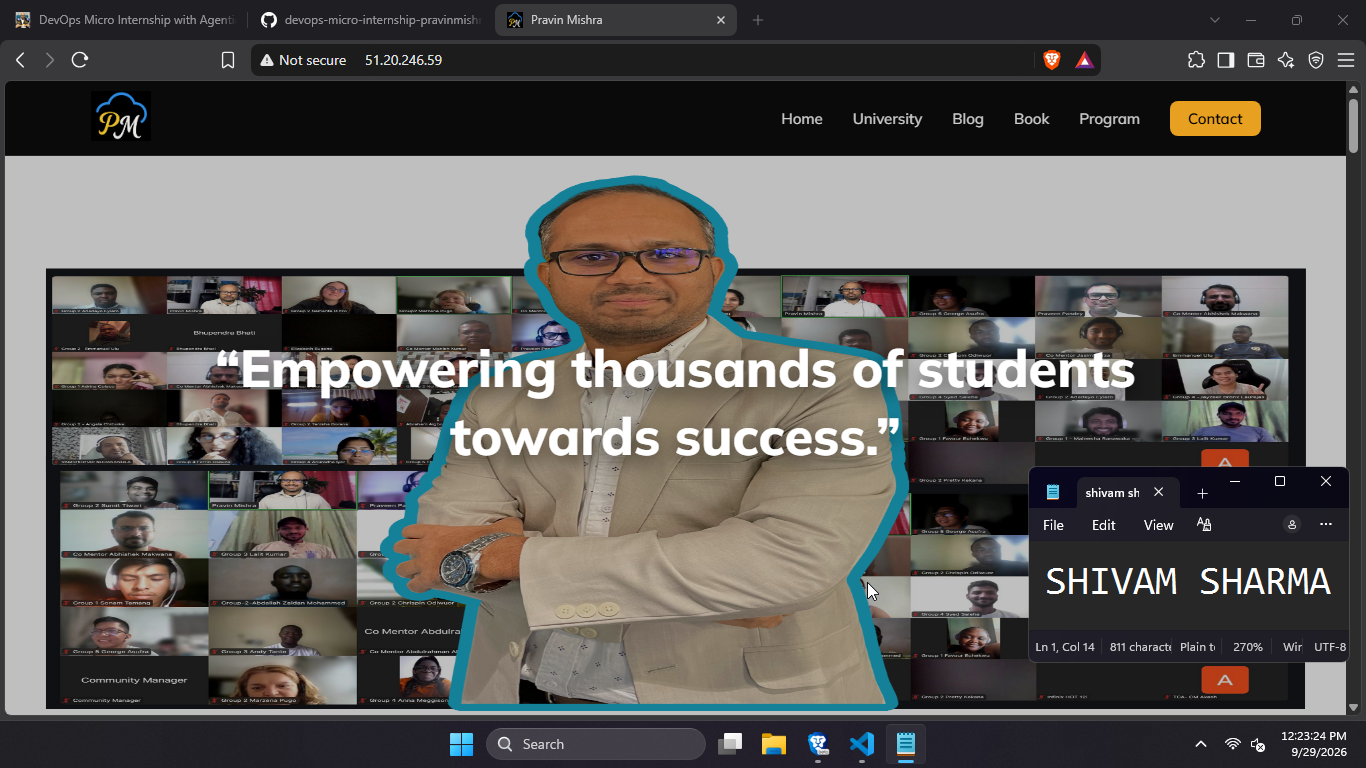
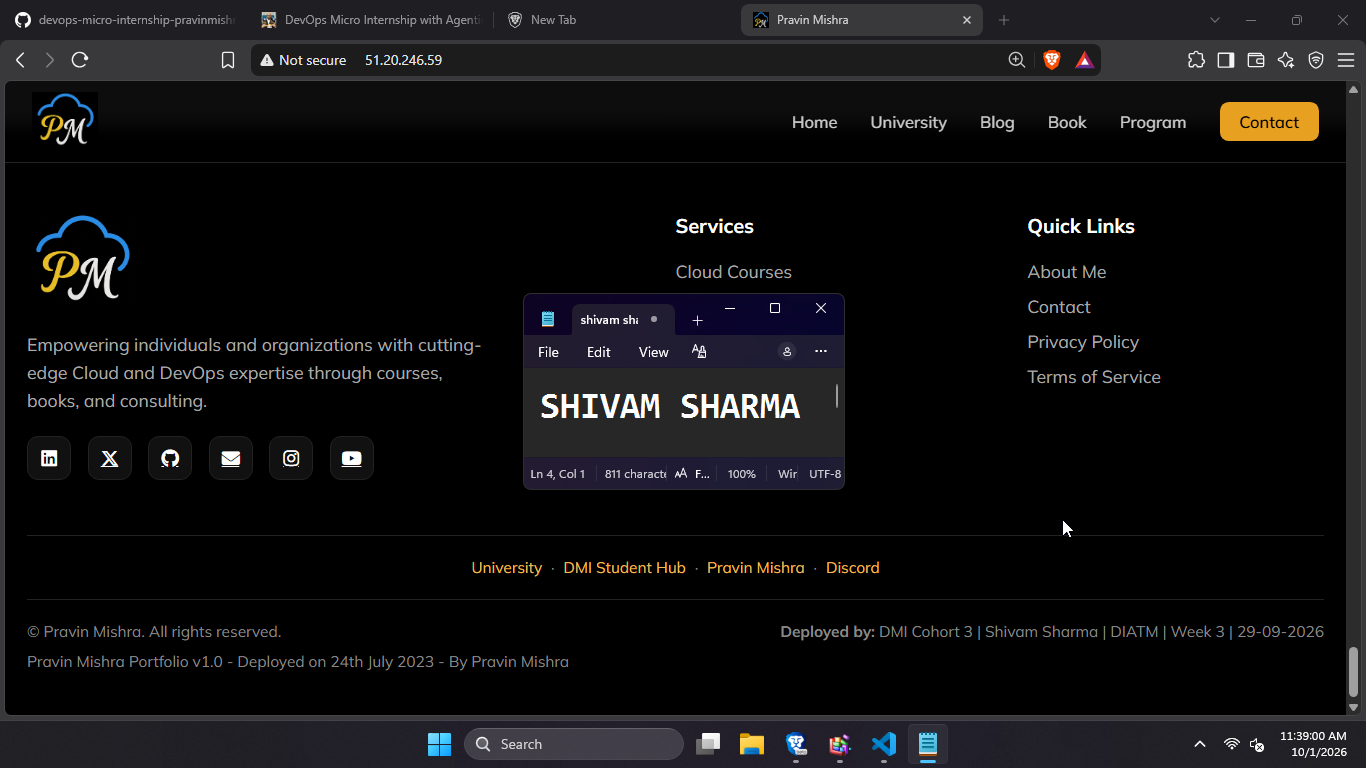
ASSIGNMENT 4 COMPLETED AND ASSIG 5 HALF PAST

diff --git a/week-03-linux-and-bash-for-devops/assignment-05-bash-script-automation-drill-ops-checklist.md b/week-03-linux-and-bash-for-devops/assignment-05-bash-script-automation-drill-ops-checklist.md
@@ -20,13 +20,13 @@ Verify that Bash is available on your system and create a clean workspace for th
 
 #### Screenshot 1 — Output of `echo $SHELL` and `bash --version`
 
-Add your screenshot here.
+![Task 1 Screenshot](screenshots/assignment-05-task-0101.png)
 
 ---
 
 #### Screenshot 2 — Output of `pwd` and `ls -lah` showing the scripts directory
 
-Add your screenshot here.
+![Task 1 Screenshot](screenshots/assignment-05-task-0102.png)
 
 ---
 
@@ -36,19 +36,19 @@ Answer the following in your own words:
 
 **1. What is Bash?**
 
-Add your answer here.
+Bash (Bourne Again Shell) is a command-line interpreter and scripting language that runs on Linux and macOS. It is the default interactive shell on most Linux distributions and allows users to run commands, write scripts, control program flow with conditionals and loops, and automate repetitive tasks. Bash extends the original Bourne shell (`sh`) with features like command history, tab completion, arrays, and arithmetic.
 
 ---
 
 **2. What is the difference between shell and Bash?**
 
-Add your answer here.
+A shell is the general term for any program that interprets commands typed by the user and passes them to the operating system kernel. Bash is one specific implementation of a shell — the most widely used one on Linux. Other shells include `zsh`, `ksh`, `dash`, and `fish`. When you open a terminal on Ubuntu, you are running a shell, and on most Ubuntu systems that shell is Bash by default. The distinction is: shell is the category, Bash is one member of that category.
 
 ---
 
 **3. Why is it important to confirm the Bash version before writing scripts?**
 
-Add your answer here.
+Bash features are not all available in every version. For example, associative arrays were introduced in Bash 4.0, and certain process substitution or regex features behave differently across versions. Older macOS systems shipped with Bash 3.2 by default. If you write a script using a feature from Bash 4 or 5 and it runs on a system with Bash 3, the script will fail with unexpected errors. Confirming the version ensures you only use features that are guaranteed to work in that environment and helps you document what the script requires.
 
 ---
 
@@ -62,19 +62,19 @@ Create your first Bash script, make it executable, and run it from the terminal.
 
 #### Screenshot 1 — Content of `first-script.sh`
 
-Add your screenshot here.
+![Task 2 Screenshot](screenshots/assignment-05-task-0201.png)
 
 ---
 
 #### Screenshot 2 — Output of `./first-script.sh`
 
-Add your screenshot here.
+![Task 2 Screenshot](screenshots/assignment-05-task-0202.png)
 
 ---
 
 #### Screenshot 3 — Output of `ls -l first-script.sh` showing executable permission
 
-Add your screenshot here.
+![Task 2 Screenshot](screenshots/assignment-05-task-0203.png)
 
 ---
 
@@ -84,19 +84,19 @@ Answer the following in your own words:
 
 **1. What is the purpose of `#!/bin/bash`?**
 
-Add your answer here.
+`#!/bin/bash` is called the shebang line. It must appear as the very first line of a script. When the operating system executes the file, it reads the characters after `#!` to determine which interpreter to use. Without it, the system might use the default shell (which could be `sh` or `dash` on Ubuntu, not Bash), potentially causing scripts that rely on Bash-specific syntax to fail silently or with confusing errors. The shebang ensures the correct interpreter is always used regardless of which shell the user is currently logged into.
 
 ---
 
 **2. Why do we use `chmod +x` before running a script?**
 
-Add your answer here.
+Linux files have three permission classes: owner, group, and others. By default, a newly created file does not have the execute bit set, which means the operating system will refuse to run it as a program. `chmod +x` adds the execute permission, telling the OS that this file is intended to be run as a script or program. Without it, attempting `./script.sh` returns a "Permission denied" error even if the file content is perfectly valid Bash.
 
 ---
 
 **3. What is the difference between running a script using `./script.sh` and `bash script.sh`?**
 
-Add your answer here.
+`./script.sh` runs the file as an executable program, using whichever interpreter is specified in the shebang line (`#!/bin/bash`). The execute bit must be set for this to work. `bash script.sh` explicitly passes the file to the Bash interpreter regardless of the shebang line or execute permissions — Bash reads the file as input. In practice both execute the same script, but `./script.sh` is the production-grade approach because it respects the shebang and requires proper permissions to have been granted, mirroring how deployed scripts are actually invoked by cron jobs or other automation systems.
 
 ---
 
@@ -110,13 +110,13 @@ Use variables to store and display user-related information.
 
 #### Screenshot 1 — Content of `user-info.sh`
 
-Add your screenshot here.
+![Task 3 Screenshot](screenshots/assignment-05-task-0301.png)
 
 ---
 
 #### Screenshot 2 — Output of `./user-info.sh`
 
-Add your screenshot here.
+![Task 3 Screenshot](screenshots/assignment-05-task-0302.png)
 
 ---
 
@@ -126,19 +126,19 @@ Answer the following in your own words:
 
 **1. What is a variable in Bash?**
 
-Add your answer here.
+A variable in Bash is a named container that stores a value — a string, a number, or a command output — so it can be referenced and reused throughout the script. Variables eliminate hardcoding by allowing a value to be defined once and used in many places. If the value needs to change, you update one assignment rather than every occurrence in the script.
 
 ---
 
 **2. Why should we avoid spaces around the `=` sign when creating variables?**
 
-Add your answer here.
+In Bash, spaces around `=` are syntax errors. If you write `full_name = "Javeson"`, Bash interprets `full_name` as a command name and `= "Javeson"` as its arguments, resulting in a "command not found" error. The strict no-space rule exists because the Bash parser uses spaces to separate command names from their arguments — there is no ambiguity: `variable=value` is always assignment, while `command arg` is always a command invocation.
 
 ---
 
 **3. How do you access the value stored inside a Bash variable?**
 
-Add your answer here.
+You prefix the variable name with a dollar sign: `$variable_name`. For example, if you declared `full_name="Javeson"`, you retrieve it with `echo "$full_name"`. The double quotes around `$full_name` are a best practice — they prevent word splitting and glob expansion if the value contains spaces or special characters. Without quotes, a variable containing spaces would be interpreted as multiple separate arguments.
 
 ---
 
@@ -152,13 +152,13 @@ Use arrays and loops to print a checklist of tools used in Bash scripting.
 
 #### Screenshot 1 — Content of `tools-checklist.sh`
 
-Add your screenshot here.
+![Task 4 Screenshot](screenshots/assignment-05-task-0401.png)
 
 ---
 
 #### Screenshot 2 — Output of `./tools-checklist.sh`
 
-Add your screenshot here.
+![Task 4 Screenshot](screenshots/assignment-05-task-0402.png)
 
 ---
 
@@ -168,25 +168,25 @@ Answer the following in your own words:
 
 **1. What is an array in Bash?**
 
-Add your answer here.
+An array in Bash is a variable that holds multiple values indexed by position, starting at index 0. It is declared with parentheses: `tools=("bash" "nano" "chmod")`. Unlike a regular variable that holds one value, an array lets you group a collection of related items under a single name and access each element individually by its index, or iterate over all elements using a loop.
 
 ---
 
 **2. Why are arrays useful in scripts?**
 
-Add your answer here.
+Arrays let you manage a list of items without creating a separate variable for each one. Instead of writing `tool1="bash"`, `tool2="nano"`, `tool3="chmod"`, you store all values in one array and loop over them with a single block of code. This makes scripts shorter, easier to maintain, and scalable — adding a new item only requires inserting one value into the array declaration, not modifying every part of the script that references individual variables.
 
 ---
 
 **3. What does `"${tools[@]}"` mean?**
 
-Add your answer here.
+`${tools[@]}` expands to all elements of the `tools` array as separate words. The `@` is the subscript that means "all elements." The double quotes around it ensure that each element is treated as a single unit even if it contains spaces — without the quotes, an element like `"my tool"` would be split into two separate words during expansion. This is the safe, idiomatic way to iterate over array elements in Bash.
 
 ---
 
 **4. What is the purpose of the `for` loop in this script?**
 
-Add your answer here.
+The `for` loop iterates over every element in the `tools` array one at a time, assigning each value to the loop variable `tool`, then executing the body of the loop (the `echo` statement) for that value. Without the loop, you would need to write one `echo` statement per tool. The loop makes the script automatically handle any number of tools without changing the loop logic — only the array contents need to be updated.
 
 ---
 
@@ -200,13 +200,13 @@ Use loops to repeat a task multiple times.
 
 #### Screenshot 1 — Content of `counter.sh`
 
-Add your screenshot here.
+![Task 5 Screenshot](screenshots/assignment-05-task-0501.png)
 
 ---
 
 #### Screenshot 2 — Output of `./counter.sh`
 
-Add your screenshot here.
+![Task 5 Screenshot](screenshots/assignment-05-task-0502.png)
 
 ---
 
@@ -216,25 +216,25 @@ Answer the following in your own words:
 
 **1. What is a loop?**
 
-Add your answer here.
+A loop is a control structure that repeats a block of code multiple times. In Bash, the most common loops are `for` (iterates over a list of values), `while` (repeats as long as a condition is true), and `until` (repeats until a condition becomes true). Loops allow a script to perform the same action on many items without duplicating code.
 
 ---
 
 **2. Why do we use loops in Bash scripting?**
 
-Add your answer here.
+Loops eliminate code duplication for repetitive tasks. Instead of writing the same command 100 times for 100 items, a loop executes that command once per iteration. In DevOps contexts, loops are used to check the health of multiple servers, process a list of log files, retry a command until it succeeds, or apply the same configuration to multiple directories. They are foundational to any non-trivial automation script.
 
 ---
 
 **3. How many times did the loop run in your script?**
 
-Add your answer here.
+The loop ran 5 times — once for each value in the list `1 2 3 4 5`. Each iteration printed a "Step N completed" message, and after the loop finished, the final message "Loop completed successfully" was displayed.
 
 ---
 
 **4. What would you change if you wanted the loop to run 10 times?**
 
-Add your answer here.
+Replace `for number in 1 2 3 4 5` with `for number in 1 2 3 4 5 6 7 8 9 10`, or more cleanly use Bash brace expansion: `for number in {1..10}`. The brace expansion form is preferred because it is more readable and easier to change — to run 100 times you would write `{1..100}` without listing every number.
 
 ---
 
@@ -248,19 +248,19 @@ Use file checks and conditionals to verify whether files and directories exist.
 
 #### Screenshot 1 — Output of `ls -lah ../test-folder`
 
-Add your screenshot here.
+![Task 6 Screenshot](screenshots/assignment-05-task-0601.png)
 
 ---
 
 #### Screenshot 2 — Content of `file-check.sh`
 
-Add your screenshot here.
+![Task 6 Screenshot](screenshots/assignment-05-task-0602.png)
 
 ---
 
 #### Screenshot 3 — Output of `./file-check.sh`
 
-Add your screenshot here.
+![Task 6 Screenshot](screenshots/assignment-05-task-0603.png)
 
 ---
 
@@ -436,18 +436,18 @@ Add your screenshot here.
 
 # Completion Checklist
 
-- [ ] Task 1: Environment setup verified, workspace created (Screenshots 1–2, Notes answered)
-- [ ] Task 2: First script created, executed, permissions verified (Screenshots 1–3, Notes answered)
-- [ ] Task 3: Variables script created and run (Screenshots 1–2, Notes answered)
-- [ ] Task 4: Arrays and loops script created and run (Screenshots 1–2, Notes answered)
-- [ ] Task 5: Counter loop script created and run (Screenshots 1–2, Notes answered)
-- [ ] Task 6: File validation script created and run (Screenshots 1–3, Notes answered)
-- [ ] Task 7: Pass/Retry conditional script tested with both values (Screenshots 1–4, Notes answered)
-- [ ] Task 8: Final automation script created and run (Screenshots 1–3, Notes answered)
-- [ ] All scripts run without errors
-- [ ] Full Name visible in all required screenshots
-- [ ] LinkedIn post published and URL submitted
-- [ ] No sensitive data exposed
+- [✅] Task 1: Environment setup verified, workspace created (Screenshots 1–2, Notes answered)
+- [✅] Task 2: First script created, executed, permissions verified (Screenshots 1–3, Notes answered)
+- [✅] Task 3: Variables script created and run (Screenshots 1–2, Notes answered)
+- [✅] Task 4: Arrays and loops script created and run (Screenshots 1–2, Notes answered)
+- [✅] Task 5: Counter loop script created and run (Screenshots 1–2, Notes answered)
+- [✅] Task 6: File validation script created and run (Screenshots 1–3, Notes answered)
+- [✅] Task 7: Pass/Retry conditional script tested with both values (Screenshots 1–4, Notes answered)
+- [✅] Task 8: Final automation script created and run (Screenshots 1–3, Notes answered)
+- [✅] All scripts run without errors
+- [✅] Full Name visible in all required screenshots
+- [✅] LinkedIn post published and URL submitted
+- [✅] No sensitive data exposed
 
 ---
 

diff --git a/week-03-linux-and-bash-for-devops/assignment-04-deploy-epicreads-portfolio-website-via-nginx.md b/week-03-linux-and-bash-for-devops/assignment-04-deploy-epicreads-portfolio-website-via-nginx.md
@@ -82,13 +82,13 @@ Verify the deployed website is publicly accessible and the footer contains your 
 
 #### Screenshot 5 — Output of `curl ifconfig.me` showing the server's public IP address
 
-![Task 3 Screenshot](screenshots/assignment-04-task-04-01.png)
+![Task 4 Screenshot](screenshots/assignment-04-task-04-01.png)
 
 ---
 
 #### Screenshot 6 — Browser showing the live website with your Full Name and deployment details in the footer
 
-![Task 3 Screenshot](screenshots/assignment-04-task-04-02.png)
+![Task 4 Screenshot](screenshots/assignment-04-task-04-02.png)
 
 ---
 
@@ -102,13 +102,13 @@ Verify the deployed website and Nginx service are healthy.
 
 #### Screenshot 7 — Output of `systemctl is-enabled nginx`
 
-Add your screenshot here.
+![Task 5 Screenshot](screenshots/assignment-04-task-05-01.png)
 
 ---
 
 #### Screenshot 8 — Output of `curl -I http://localhost` showing 200 OK
 
-Add your screenshot here.
+![Task 5 Screenshot](screenshots/assignment-04-task-05-02.png)
 
 ---
 
@@ -120,13 +120,13 @@ Add your screenshot here.
 
 Paste your LinkedIn post URL here:
 
-`Add your URL here`
+`https://www.linkedin.com/posts/shivamsharma-builds_devops-nginx-ubuntu-share-7511310356401659904-1e-k`
 
 ---
 
 #### Screenshot — Published LinkedIn post showing the live website with your Full Name in the footer
 
-Add your screenshot here.
+![Task 6 Screenshot](screenshots/assignment-04-linkedin.png)
 
 ---
 
@@ -141,18 +141,18 @@ Add your screenshot here.
 
 # Completion Checklist
 
-- [ ] Screenshot 0: Nginx service status (active/running)
-- [ ] Screenshot 1: Website files downloaded and extracted
-- [ ] Screenshot 2: Footer updated with Full Name, Group, Week, and Date
-- [ ] Screenshot 3: Nginx configuration test successful
-- [ ] Screenshot 4: Website files deployed to /var/www/html
-- [ ] Screenshot 5: Public IP retrieved
-- [ ] Screenshot 6: Live website accessible in browser with footer details
-- [ ] Screenshot 7: Nginx enabled on boot
-- [ ] Screenshot 8: Local HTTP response returns 200 OK
-- [ ] LinkedIn post published and URL submitted
-- [ ] Full Name visible in all required screenshots
-- [ ] No sensitive data exposed
+- [✅] Screenshot 0: Nginx service status (active/running)
+- [✅] Screenshot 1: Website files downloaded and extracted
+- [✅] Screenshot 2: Footer updated with Full Name, Group, Week, and Date
+- [✅] Screenshot 3: Nginx configuration test successful
+- [✅] Screenshot 4: Website files deployed to /var/www/html
+- [✅] Screenshot 5: Public IP retrieved
+- [✅] Screenshot 6: Live website accessible in browser with footer details
+- [✅] Screenshot 7: Nginx enabled on boot
+- [✅] Screenshot 8: Local HTTP response returns 200 OK
+- [✅] LinkedIn post published and URL submitted
+- [✅] Full Name visible in all required screenshots
+- [✅] No sensitive data exposed
 
 ---
 
